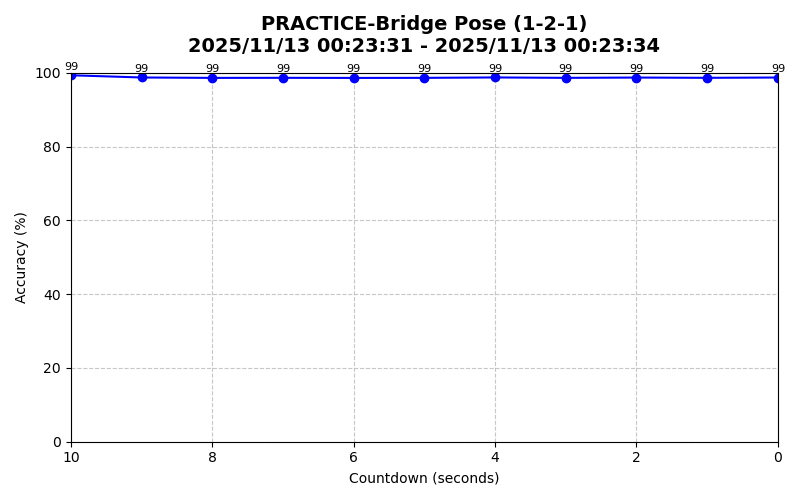
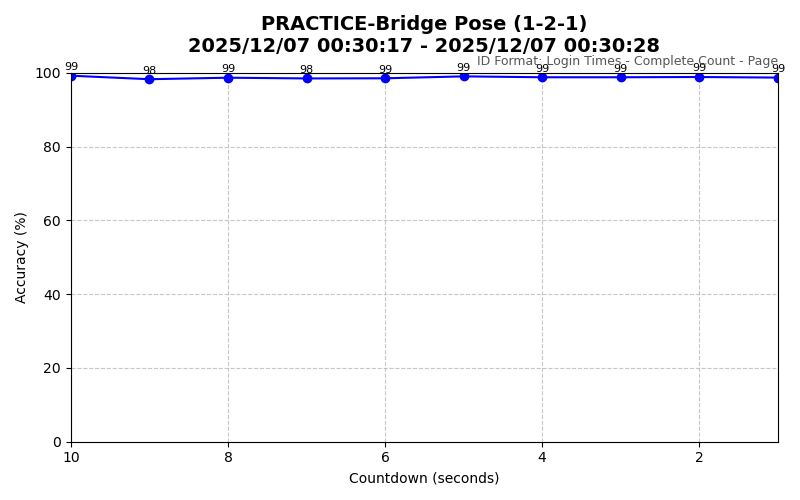
圖表部分添加編號說明

diff --git a/main.py b/main.py
@@ -787,7 +787,6 @@ class AIYogaCoachApp(QMainWindow, Ui_MainWindow):
     def closeEvent(self, event):
         try:
             if hasattr(self, 'logger') and self.logger:
-                self.logger.bump_count()  # Increase count before closing
                 self.logger.end_session()
         except Exception:
             pass
@@ -826,30 +825,11 @@ class AIYogaCoachApp(QMainWindow, Ui_MainWindow):
             )
 
             if not groups:
-                # no DB groups found: try to find existing images in record_pic folder that match prefix
-                record_pic_dir = os.path.join(os.path.dirname(__file__), "record_pic")
-                safe_posture = posture_text.replace(" ", "_").replace("/", "-")
-                safe_mode = str(mode_text).upper()
-                prefix = f"{user_id}_{safe_mode}_{safe_posture}_"
-                found = []
-                if os.path.isdir(record_pic_dir):
-                    for f in sorted(os.listdir(record_pic_dir)):
-                        if f.startswith(prefix) and f.lower().endswith(('.png', '.jpg', '.jpeg')):
-                            # optional: filter by filename timestamp and date range if present
-                            found.append(os.path.join(record_pic_dir, f))
-                if not found:
-                    NotificationLabel(self, "No data found.", success=False)
-                    self.chart_groups = []
-                    self.chart_paths = []
-                    self.current_group_index = 0
-                    return
-                else:
-                    # Use existing images
-                    self.chart_groups = []
-                    self.chart_paths = found
-                    self.current_group_index = 0
-                    self.show_current_group()
-                    return
+                NotificationLabel(self, "No data found for the selected date range.", success=False)
+                self.chart_groups = []
+                self.chart_paths = []
+                self.current_group_index = 0
+                return
 
             # Save charts for each small group (this will create/overwrite image files)
             paths = generate_chart.save_group_charts(groups, self.account.user_id, posture_text, mode_text)
@@ -999,8 +979,6 @@ class AIYogaCoachApp(QMainWindow, Ui_MainWindow):
     def on_reset_clicked(self):
         """Handle reset button clicked."""
         try:
-            # Increase count when user resets
-            self.logger.bump_count()
             NotificationLabel(self, "Reset successful. Count increased.", success=True)
         except Exception as e:
             print("on_reset_clicked error:", e)

diff --git a/generate_chart.py b/generate_chart.py
@@ -255,6 +255,10 @@ def save_group_charts(groups, user_id, posture_text, mode_text):
                     plt.xticks(range(x_max, x_min - 1, -2))
 
             plt.title(f"{title_main}\n{title_sub}", fontsize=14, fontweight="bold", loc="center", pad=15)
+            plt.text(1.0, 1.0125, "ID Format: Login Times - Complete Count - Page", 
+                     transform=plt.gca().transAxes, 
+                     ha='right', va='bottom', 
+                     fontsize=9, color='#555555')
             plt.grid(True, linestyle='--', alpha=0.7)
             plt.tight_layout()
 

diff --git a/record_logger.py b/record_logger.py
@@ -72,7 +72,7 @@ class RecordLogger:
             with self.db.cursor() as cursor:
                 cursor.execute("SELECT MAX(`count`) AS max_count FROM record_picture WHERE user_id=%s", (user_id,))
                 row = cursor.fetchone()
-                self.current_count = (row["max_count"] or 0)
+                self.current_count = (row["max_count"] or 0) + 1 
         except Exception as e:
             print("set_user_id load count error:", e)
             self.current_count = 0
